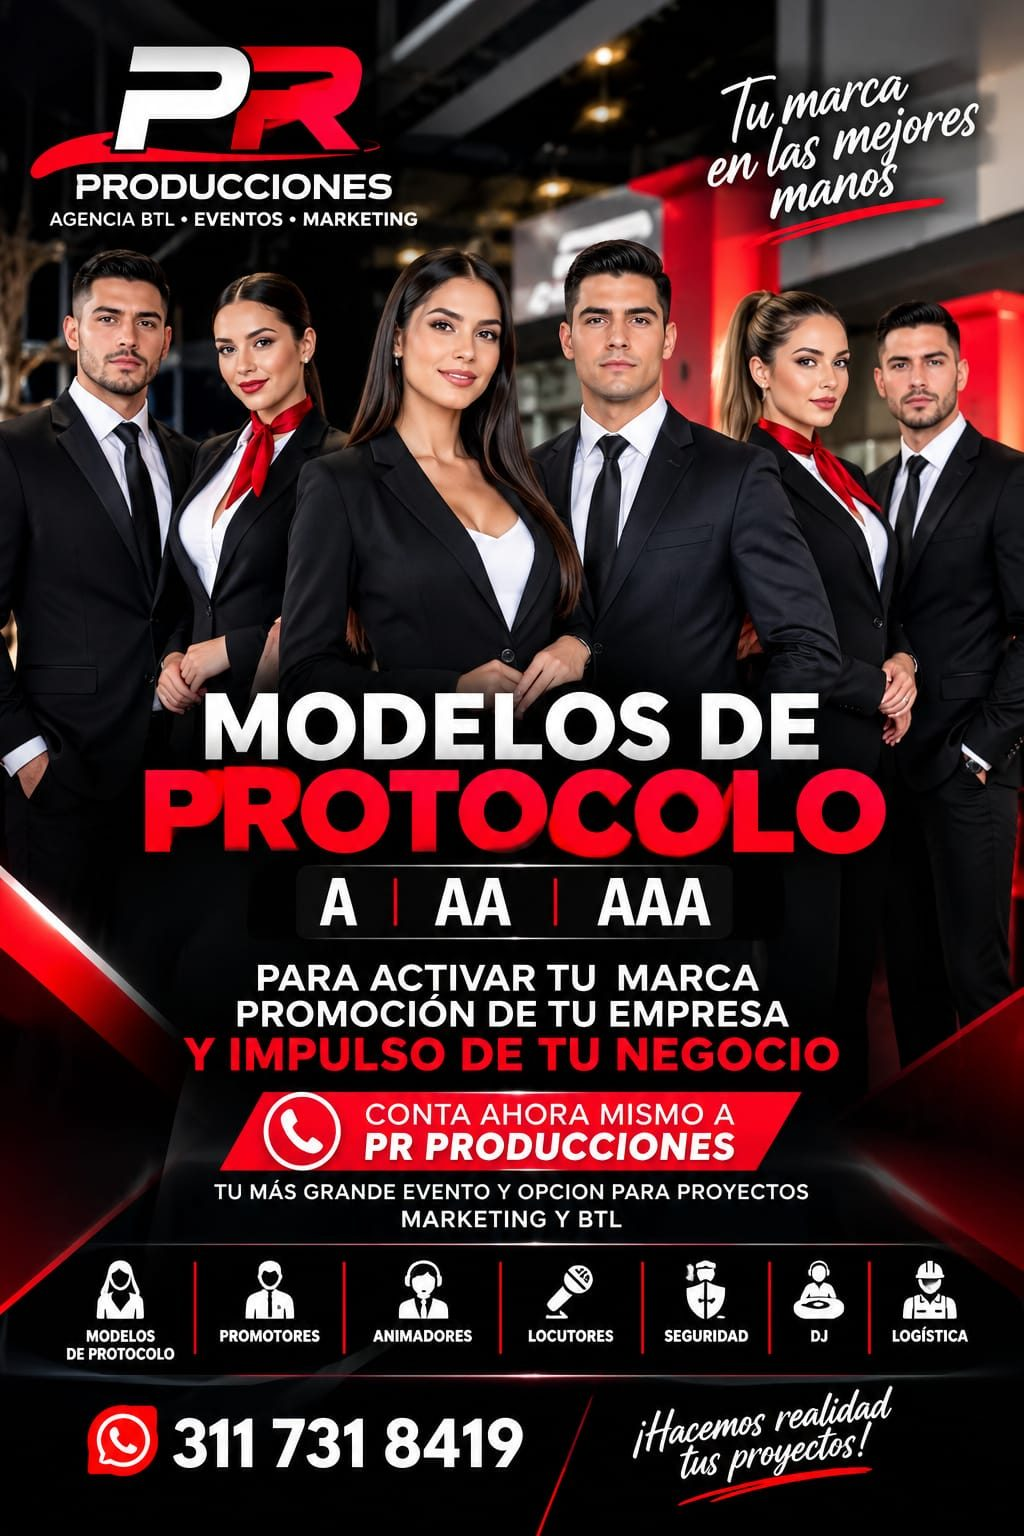
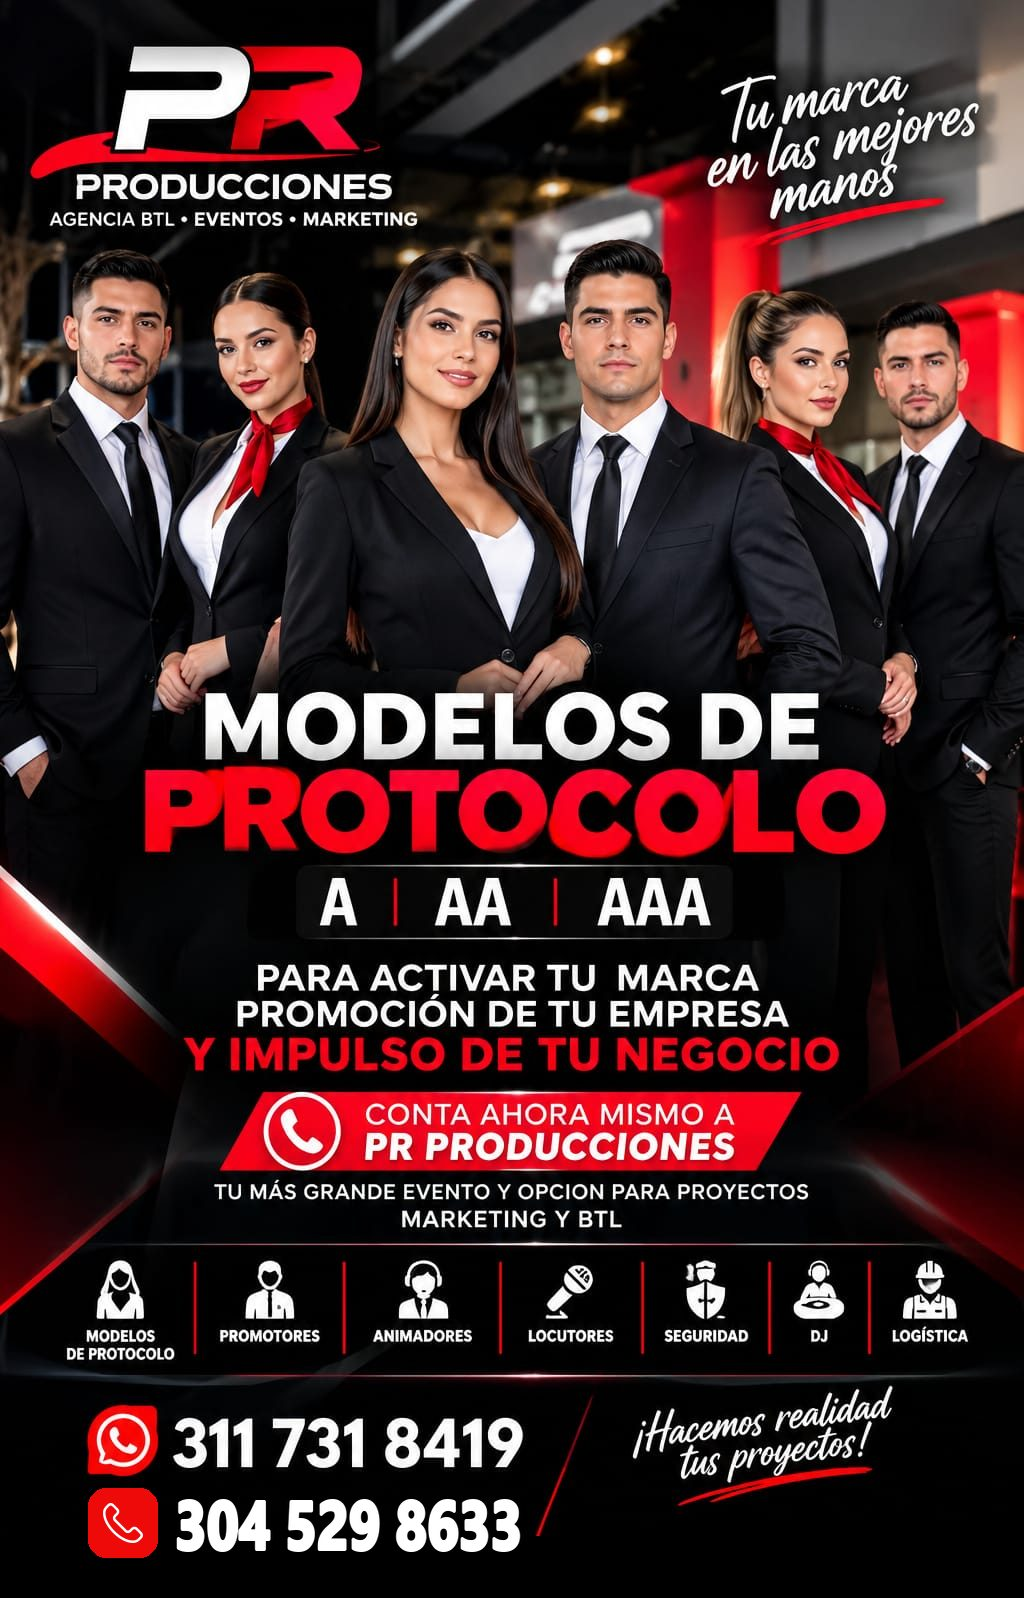
feat: añadir el teléfono 304 529 8633 al póster del inicio

diff --git a/apps/web/src/data/pages.js b/apps/web/src/data/pages.js
@@ -84,7 +84,7 @@ export const homePageContent = {
     ctaLabel: 'Explorar nuestros servicios',
     image: '/pr-producciones-modelos-protocolo.jpg',
     imageWebp: '/pr-producciones-modelos-protocolo.webp',
-    imageAlt: 'PR Producciones, agencia BTL: modelos de protocolo A, AA y AAA, promotores, animadores, locutores, seguridad, DJ y logística. WhatsApp 311 731 8419.',
+    imageAlt: 'PR Producciones, agencia BTL: modelos de protocolo A, AA y AAA, promotores, animadores, locutores, seguridad, DJ y logística. WhatsApp 311 731 8419 y teléfono 304 529 8633.',
   },
   cta: {
     title: '¿LISTO PARA CREAR ALGO INCREÍBLE?',

diff --git a/apps/web/src/pages/HomePage.jsx b/apps/web/src/pages/HomePage.jsx
@@ -127,7 +127,7 @@ const HomePage = () => {
                      src={homePageContent.about.image}
                      alt={homePageContent.about.imageAlt}
                      width="1024"
-                     height="1536"
+                     height="1598"
                      loading="lazy"
                      decoding="async"
                      className="relative mx-auto w-full max-w-md h-auto rounded-3xl border border-white/10 shadow-2xl shadow-black/40"
